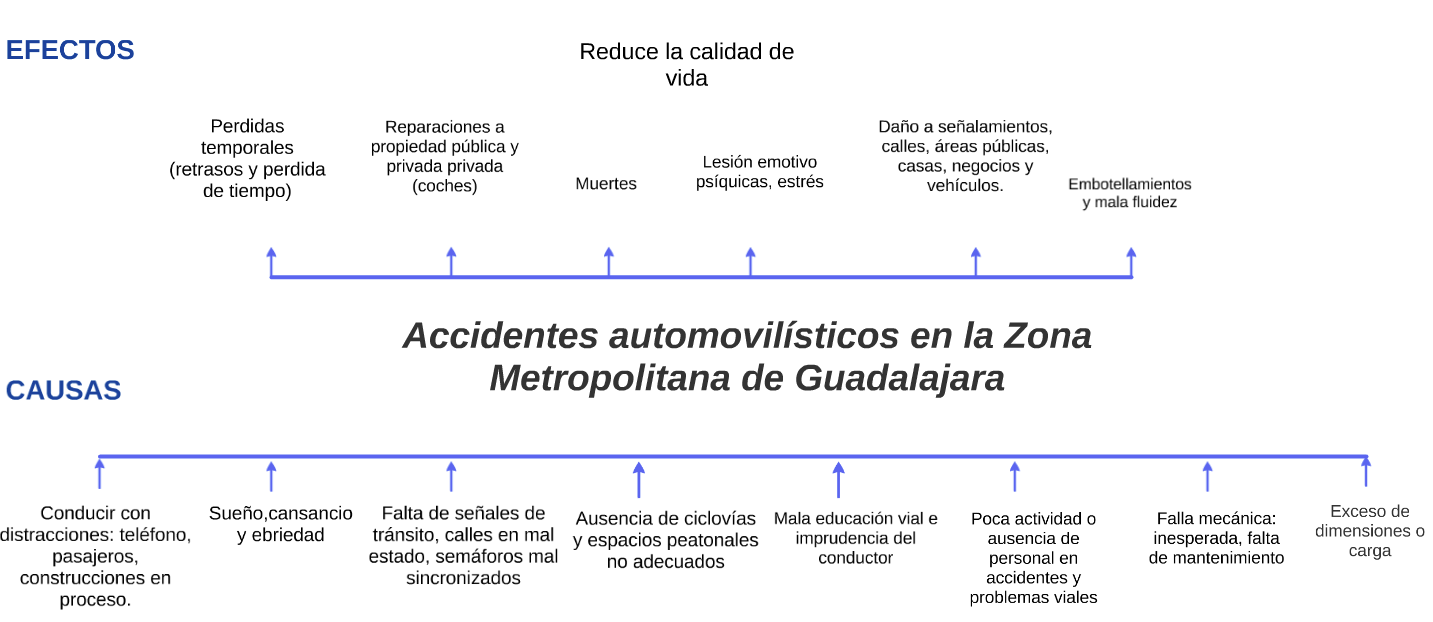
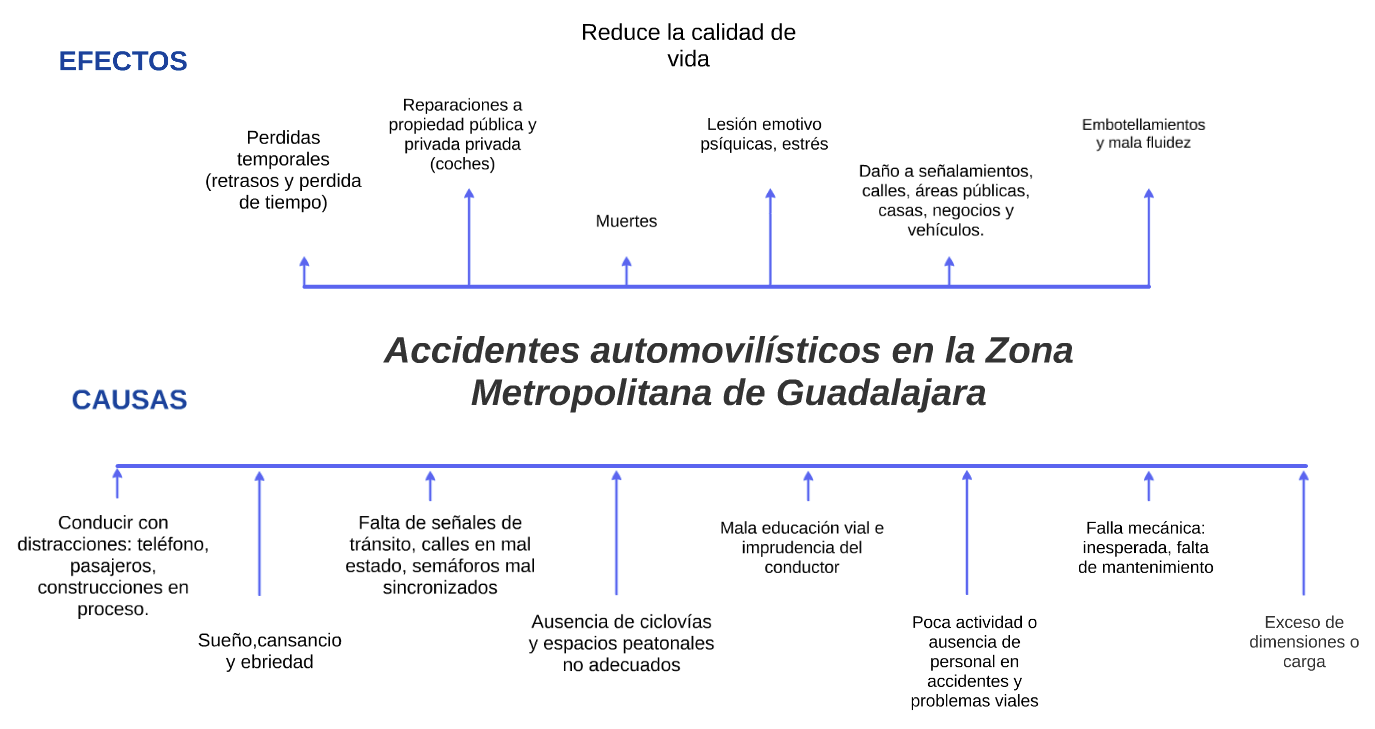
Update on Overleaf.

diff --git a/main.tex b/main.tex
@@ -147,7 +147,7 @@ Este estudio propone el siguiente árbol de problemas (véase Figura \ref{fig:ar
 
 
 	\begin{figure}[H]\centering
-	\includegraphics[width=1.25\textwidth]{resources/img/arbol_de_problemas.png}
+	\includegraphics[width=1.4\textwidth]{resources/img/arbol_de_problemas.png}
 	\caption{\label{fig:arbol} Árbol de problemas}
     \end{figure}
 
